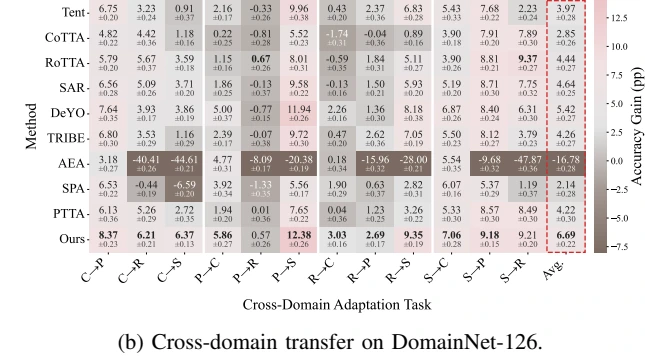
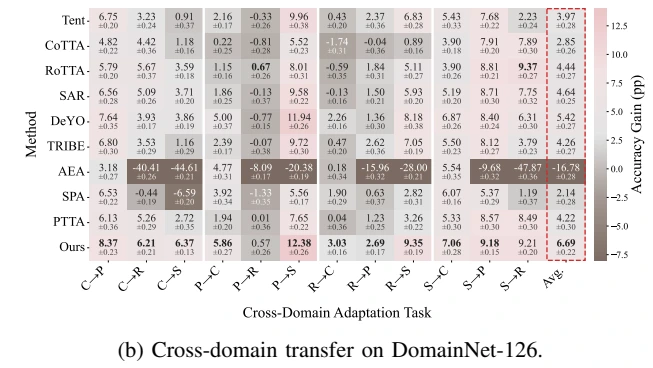
Align final response values and evidence boundaries; stabilize PDF deep-link navigation

diff --git a/data.js b/data.js
@@ -14,14 +14,14 @@ window.REVIEW_DATA={
[1 lines of base64/hex data omitted]
       },
       "revised": {
[3 lines of base64/hex data omitted]
       }
     },
     "fullResponseSource": "revise/Response_to_Editors_and_Reviewers_TCSVT_GPT5-6_v14/Response_to_Editors_and_Reviewers_TCSVT_GPT5-6_v14.tex",
[2 lines of base64/hex data omitted]
     "responsePages": 21,
[2 lines of base64/hex data omitted]
     "responseRevision": "v14",
     "revisedManuscriptSource": "latex_revise/main.tex"
   },
@@ -389,8 +389,7 @@ window.REVIEW_DATA={
         "probe-definition",
         "pcs-definition",
         "probe-sensitivity",
-        "purity-protocol",
-        "sinkhorn"
+        "purity-protocol"
       ],
       "metrics": [
         [
@@ -831,6 +830,8 @@ window.REVIEW_DATA={
           "kind": "image",
           "src": "assets/response/ab_margin_3d_lambda_u2.png",
           "alt": "Fig. 12(c). Hyperparameter sensitivity. Sensitivity to perturbation strength ⟪\\lambda⟫ and nominal frequency sampling range ⟪f_c⟫ (cycles/image).",
+          "width": 1108,
+          "height": 1082,
           "evidenceId": "probe-sensitivity"
         },
         {
@@ -1581,13 +1582,15 @@ window.REVIEW_DATA={
         },
         {
           "kind": "paragraph",
-          "html": "On the same A100 setup, Lite reduces FLOPs from 24.6 G to 9.4 G, peak memory from 14,690 MB to 6,080 MB, and latency from 5.20 to 3.19 ms/image, achieving 42.06% accuracy—1.42 pp below full DCF and 3.16 pp above SAR. Figure 12(d) supports low Sinkhorn iteration counts across the tested regularization range. Table IX reports accuracy gains of 0.09 and 0.21 pp for the Expected Fisher and Hutchinson proxies, respectively, with additional runtimes of 1.9 and 6.8 ms/image. The default proxy therefore offers a favorable accuracy–cost trade-off.",
-          "text": "On the same A100 setup, Lite reduces FLOPs from 24.6 G to 9.4 G, peak memory from 14,690 MB to 6,080 MB, and latency from 5.20 to 3.19 ms/image, achieving 42.06% accuracy—1.42 pp below full DCF and 3.16 pp above SAR. Figure 12(d) supports low Sinkhorn iteration counts across the tested regularization range. Table IX reports accuracy gains of 0.09 and 0.21 pp for the Expected Fisher and Hutchinson proxies, respectively, with additional runtimes of 1.9 and 6.8 ms/image. The default proxy therefore offers a favorable accuracy–cost trade-off."
+          "html": "On the same A100 setup, Lite reduces FLOPs from 24.6 G to 9.4 G, peak memory from 14,690 MB to 6,080 MB, and latency from 5.20 to 3.19 ms/image, achieving 42.06% accuracy—1.42 pp below full DCF and 3.16 pp above SAR. Figure 12(d) supports low Sinkhorn iteration counts across the tested regularization range. Table IX reports accuracy gains of 0.09 and 0.22 pp for the Expected Fisher and Hutchinson proxies, respectively, with additional runtimes of 1.9 and 6.8 ms/image. The default proxy therefore offers a favorable accuracy–cost trade-off.",
+          "text": "On the same A100 setup, Lite reduces FLOPs from 24.6 G to 9.4 G, peak memory from 14,690 MB to 6,080 MB, and latency from 5.20 to 3.19 ms/image, achieving 42.06% accuracy—1.42 pp below full DCF and 3.16 pp above SAR. Figure 12(d) supports low Sinkhorn iteration counts across the tested regularization range. Table IX reports accuracy gains of 0.09 and 0.22 pp for the Expected Fisher and Hutchinson proxies, respectively, with additional runtimes of 1.9 and 6.8 ms/image. The default proxy therefore offers a favorable accuracy–cost trade-off."
         },
         {
           "kind": "image",
           "src": "assets/response/ab_margin_3d_N_sk_varepsilon.png",
           "alt": "Fig. 12(d). Hyperparameter sensitivity. Stability across Sinkhorn iteration counts ⟪N_{\\mathrm{sk}}⟫ and entropic regularization values ⟪\\varepsilon_{\\mathrm{OT}}⟫, showing stable performance with few iterations.",
+          "width": 1109,
+          "height": 1058,
           "evidenceId": "sinkhorn"
         },
         {
@@ -1663,6 +1666,8 @@ window.REVIEW_DATA={
           "kind": "image",
           "src": "assets/response/retention-gates.png",
           "alt": "Fig. 9. Per-layer retention gates ⟪\\mu_t^l⟫ of CLR (ResNet-50). (a) Gates over the long-horizon stream (Domain index ⟪0\\!\\to\\!225⟫). (b) Gates per corruption type on T-CS.",
+          "width": 1800,
+          "height": 1350,
           "evidenceId": "retention-heatmap"
         },
         {
@@ -1796,8 +1801,8 @@ window.REVIEW_DATA={
         },
         {
           "kind": "paragraph",
-          "html": "As shown in Table IX, stage-level control outperforms normalization-layer control by 0.56 pp. Crucially, regarding the curvature estimator, more sophisticated proxies yield only marginal accuracy gains (+0.09 pp for Expected Fisher and +0.21 pp for Hutchinson) while incurring substantial latency overheads (+1.9 and +6.8 ms/image). This confirms our default per-sample gradient-square proxy as a highly effective, Pareto-optimal choice for real-time online adaptation.",
-          "text": "As shown in Table IX, stage-level control outperforms normalization-layer control by 0.56 pp. Crucially, regarding the curvature estimator, more sophisticated proxies yield only marginal accuracy gains (+0.09 pp for Expected Fisher and +0.21 pp for Hutchinson) while incurring substantial latency overheads (+1.9 and +6.8 ms/image). This confirms our default per-sample gradient-square proxy as a highly effective, Pareto-optimal choice for real-time online adaptation."
+          "html": "As shown in Table IX, stage-level control outperforms normalization-layer control by 0.56 pp. Crucially, regarding the curvature estimator, more sophisticated proxies yield only marginal accuracy gains (+0.09 pp for Expected Fisher and +0.22 pp for Hutchinson) while incurring substantial latency overheads (+1.9 and +6.8 ms/image). This confirms our default per-sample gradient-square proxy as a highly effective, Pareto-optimal choice for real-time online adaptation.",
+          "text": "As shown in Table IX, stage-level control outperforms normalization-layer control by 0.56 pp. Crucially, regarding the curvature estimator, more sophisticated proxies yield only marginal accuracy gains (+0.09 pp for Expected Fisher and +0.22 pp for Hutchinson) while incurring substantial latency overheads (+1.9 and +6.8 ms/image). This confirms our default per-sample gradient-square proxy as a highly effective, Pareto-optimal choice for real-time online adaptation."
         },
         {
           "kind": "heading",
@@ -1936,6 +1941,8 @@ window.REVIEW_DATA={
           "kind": "image",
           "src": "assets/response/imagenet_c_cross_heatmap_with_gain.png",
           "alt": "Fig. 11(a). Cross-domain transfer. ImageNet-C accuracy gains (in percentage points) over No Adapt, averaged across all unseen corruption domains. Results are reported as mean ⟪\\pm⟫ standard deviation over five runs.",
+          "width": 2684,
+          "height": 1514,
           "evidenceId": "transfer"
         },
         {
@@ -1948,6 +1955,8 @@ window.REVIEW_DATA={
           "kind": "image",
           "src": "assets/response/domainnet_heatmap_with_gain.png",
           "alt": "Fig. 11(b). Cross-domain transfer. DomainNet-126 accuracy gains over No Adapt for each cross-domain transfer pair (⟪\\text{Adaptation} \\to \\text{Evaluation}⟫, where C: Clipart, P: Painting, R: Real, and S: Sketch). Results are reported as mean ⟪\\pm⟫ standard deviation over five runs.",
+          "width": 2613,
+          "height": 1334,
           "evidenceId": "domainnet"
         },
         {
@@ -2014,8 +2023,8 @@ window.REVIEW_DATA={
                 "text": "DomainNet-126 gain over No Adapt"
               },
               {
-                "html": "<span data-response-math=\"6.69 \\pm 0.21\" data-display=\"false\">6.69 \\pm 0.21</span> pp",
-                "text": "⟪6.69 \\pm 0.21⟫ pp"
+                "html": "<span data-response-math=\"6.69 \\pm 0.22\" data-display=\"false\">6.69 \\pm 0.22</span> pp",
+                "text": "⟪6.69 \\pm 0.22⟫ pp"
               },
               {
                 "html": "DeYO / <span data-response-math=\"5.42 \\pm 0.27\" data-display=\"false\">5.42 \\pm 0.27</span> pp",
@@ -2059,8 +2068,8 @@ window.REVIEW_DATA={
         },
         {
           "kind": "paragraph",
-          "html": "For fair comparison and standardized evaluation, we directly adopt the unified source-domain ResNet-50 checkpoints provided by MME [46]. On DomainNet-126, models adapt on one domain and are evaluated on the remaining domains without further parameter updates; before adapting to each subsequent domain, the model is reset to the initial unified source checkpoint. DCF achieves positive gains over No Adapt across all 12 transfer pairs (+0.57 to +12.38 pp) and exceeds DeYO in every pair, with a significant aggregate accuracy advantage (61.40% versus 60.13%, <span data-response-math=\"p=2.75\\times10^{-4}\" data-display=\"false\">p=2.75\\times10^{-4}</span>). This second benchmark extends the transfer evaluation to a separate 126-class recognition task with substantial changes in visual style, strengthening the evidence that DCF maintains generalization across adaptation domains.",
-          "text": "For fair comparison and standardized evaluation, we directly adopt the unified source-domain ResNet-50 checkpoints provided by MME [46]. On DomainNet-126, models adapt on one domain and are evaluated on the remaining domains without further parameter updates; before adapting to each subsequent domain, the model is reset to the initial unified source checkpoint. DCF achieves positive gains over No Adapt across all 12 transfer pairs (+0.57 to +12.38 pp) and exceeds DeYO in every pair, with a significant aggregate accuracy advantage (61.40% versus 60.13%, ⟪p=2.75\\times10^{-4}⟫). This second benchmark extends the transfer evaluation to a separate 126-class recognition task with substantial changes in visual style, strengthening the evidence that DCF maintains generalization across adaptation domains."
+          "html": "For fair comparison and standardized evaluation, we directly adopt the unified source-domain ResNet-50 checkpoints provided by MME [46]. On DomainNet-126, models adapt on one domain and are evaluated on the remaining domains without further parameter updates. DCF achieves positive gains over No Adapt across all 12 transfer pairs (+0.57 to +12.38 pp) and exceeds DeYO in every pair, with a significant aggregate accuracy advantage (61.40% versus 60.13%, <span data-response-math=\"p=2.75\\times10^{-4}\" data-display=\"false\">p=2.75\\times10^{-4}</span>). This second benchmark extends the transfer evaluation to a separate 126-class recognition task with substantial changes in visual style, strengthening the evidence that DCF maintains generalization across adaptation domains.",
+          "text": "For fair comparison and standardized evaluation, we directly adopt the unified source-domain ResNet-50 checkpoints provided by MME [46]. On DomainNet-126, models adapt on one domain and are evaluated on the remaining domains without further parameter updates. DCF achieves positive gains over No Adapt across all 12 transfer pairs (+0.57 to +12.38 pp) and exceeds DeYO in every pair, with a significant aggregate accuracy advantage (61.40% versus 60.13%, ⟪p=2.75\\times10^{-4}⟫). This second benchmark extends the transfer evaluation to a separate 126-class recognition task with substantial changes in visual style, strengthening the evidence that DCF maintains generalization across adaptation domains."
         },
         {
           "kind": "paragraph",
@@ -2073,7 +2082,7 @@ window.REVIEW_DATA={
           "text": "Changes in the manuscript: Section IV-A, \"Benchmarks,\" p. 6; Section IV-C, \"Cross-Domain Transfer,\" and Fig. 11(a)–(b), p. 11."
         }
       ],
-      "responseWordCount": 737,
+      "responseWordCount": 721,
       "responseSourceSections": [
         "R1.6"
       ]
@@ -2883,7 +2892,7 @@ window.REVIEW_DATA={
         ],
         "aspect": 1.082214765100671
       },
-      "summary": "The local squared-response analysis establishes PCS as a structured directional-sensitivity measure. Controlled shortcut interventions connect this response to routing and improved trusted-set purity beyond entropy alone.",
+      "summary": "The local squared-response analysis establishes PCS as a structured directional-sensitivity measure under the actual post-clamp probe distribution. Controlled shortcut interventions and matched-coverage diagnostics establish its shortcut-sensitive routing value and improved trusted-set purity beyond entropy alone.",
       "before": "",
       "after": "Theoretical interpretation. Motivated by frequency-dependent model sensitivity and texture bias [39, 40], we characterize PCS through a local probability expansion. For a fixed input ⟪x⟫, let ⟪\\delta=\\mathcal{A}^{s}(x)-x⟫, ⟪Q_q(x)=\\mathbb{E}_q[\\delta\\delta^\\top]⟫, and ⟪g_x=\\nabla_x p_{\\theta_t}(\\hat{y}_t(x)\\mid x)⟫, holding the original predicted class fixed. For a locally smooth probability function and sufficiently small perturbations, retaining the positive-part operation in Eq. (5) gives ⟪\\mathbb{E}_q[s_{\\theta_t}(x)^2]\n=\\mathbb{E}_q[(-g_x^\\top\\delta)_+^2]\n+O(\\mathbb{E}_q\\lVert\\delta\\rVert_2^3).⟫ The leading term is bounded above by ⟪g_x^\\top Q_q(x)g_x⟫, where ⟪Q_q(x)⟫ captures the actual post-clamp perturbation second moments, including the effects of clamping-induced asymmetry. Thus, this relation establishes PCS as a structured directional-sensitivity measure whose response depends jointly on the prediction gradient and the directions excited by the Fourier probe. The controlled shortcut interventions in Section IV-C establish the empirical bridge to routing: among confidence-matched candidates, PCS separates task-relevant from shortcut-driven predictions and improves trusted-set purity beyond entropy alone, supporting PCS as a shortcut-sensitive routing signal.",
       "diff": {
@@ -3087,10 +3096,10 @@ window.REVIEW_DATA={
             50.49,
             6.818,
             42.157,
-            7.955
+            6.243
           ]
         ],
-        "aspect": 0.7846715328467153
+        "aspect": 0.8185279187817259
       },
       "summary": "Uniform prior mixing bounds deviation from the uniform marginal; trusted-set EMA updates and conservative centroid smoothing stabilize geometry repair under changing routing ratios.",
       "before": "Dynamic-marginal optimal transport. For each view, we compute an entropic OT assignment from routed-away features to the shared centroids. The cosine cost is ⟪\\displaystyle [\\mathbf{C}_t^V]_{ic} = 1-\\cos(\\mathbf{z}_{t,i}^{V},\\mathbf{M}_{t,c}), \\qquad V\\in\\{A,B\\}.⟫ (12) Let ⟪a_t=\\mathbf{1}_{n_t}/n_t\\in\\Delta^{n_t-1}⟫ be the sample marginal. To make the centroid marginal compatible with possible label shift, we estimate the current target class prior from stop-gradient predictions: ⟪\\displaystyle \\hat{\\pi}_{t} = \\frac{1}{N_t} \\sum_{i=1}^{N_t} \\operatorname{sg}\\!\\left[p_{\\theta_t}(\\cdot\\mid x_{t,i})\\right],⟫ (13) where ⟪\\operatorname{sg}[\\cdot]⟫ denotes stop-gradient. We maintain an exponential moving average of this prior: ⟪\\displaystyle \\bar{b}_t = (1-\\rho)\\bar{b}_{t-1} + \\rho\\hat{\\pi}_{t}, \\qquad \\bar{b}_0=\\frac{\\mathbf{1}_K}{K}.⟫ (14) The final centroid marginal used in the OT constraints is ⟪\\displaystyle b_t = \\rho\\bar{b}_t + (1-\\rho)\\frac{\\mathbf{1}_K}{K}.⟫ (15) The uniform component serves as an anti-collapse floor, discouraging routed-away samples from being concentrated on only a few categories.",
@@ -4364,11 +4373,11 @@ window.REVIEW_DATA={
         "image": "assets/crops/domainnet-revised.webp",
         "box": [
           50.49,
-          44.192,
-          42.157,
-          18.182
+          43.813,
+          42.647,
+          18.561
         ],
-        "aspect": 1.7916666666666667
+        "aspect": 1.7744565217391304
       },
       "summary": "DomainNet-126 reports five-run accuracy gains over No Adapt for 12 transfer pairs and an average column. DCF exceeds DeYO on all pairs and achieves the highest mean gain on 10 of 12 pairs.",
       "before": "",
@@ -4895,7 +4904,6 @@ window.REVIEW_DATA={
         "ae3",
         "r1-3",
         "r2-3",
-        "r1-1",
         "sae"
       ],
       "textScope": "caption"

diff --git a/review.js b/review.js
@@ -50,7 +50,7 @@ function evidence(c,m='split',scope='evidence'){
 const text=!!(c.before||c.after),both=!!(c.original&&c.revised);if(m==='slider'&&!both||m==='text'&&!text)m='split';
 const body=m==='slider'?slider(c.original,c.revised):`<div class="comparison-grid">${['original','revised'].map(v=>`<div class="compare-column">${head(v,c[v])}${!c[v]?'<div class="empty-version"><div><strong>Added in the revision</strong><br>No corresponding material in the original manuscript.</div></div>':m==='text'?`<div class="compare-text">${(v==='original'?c.before:c.after)?diff(c,v):'<span class="source-note">See the PDF excerpt for this version.</span>'}</div>`:`<div class="image-container">${img(c[v],v)}</div>`}</div>`).join('')}</div>`;
 return `<div class="evidence-header"><div><div class="eyebrow">${esc(c.type||'Figure')} evidence · ${esc(c.section||'Figure gallery')}</div><h2>${esc(c.title)}</h2></div>${badge(c.status)}</div>${scope==='modal'?'':`<p class="detail-summary">${mathText(c.summary)}</p>`}<div class="evidence-toolbar"><div class="segmented" role="group" aria-label="Comparison mode"><button data-mode="split" data-scope="${scope}" class="${m==='split'?'active':''}" aria-pressed="${m==='split'}">Side by side</button><button data-mode="slider" data-scope="${scope}" class="${m==='slider'?'active':''}" ${both?'':'disabled'} aria-pressed="${m==='slider'}">Before / after</button>${text?`<button data-mode="text" data-scope="${scope}" class="${m==='text'?'active':''}" aria-pressed="${m==='text'}">${c.textScope==='caption'?'Caption diff':'Text diff'}</button>`:''}</div><a class="button small pdf-cta" href="${pdfHref(c.id,scope==='evidence'?selected:matchesPdfScope(c)?pdfScope.comment:'all')}">Open PDF diff</a></div>${m==='text'?'<p class="diff-legend"><span class="del-key">Removed</span><span class="add-key">Added or rewritten</span></p>':''}${body}${scope==='modal'?linkedResponses(c):''}`}
-function responseFigure(b,c){return `<figure class="response-figure"><img src="${assetUrl(b.src)}" alt="${esc(b.alt)}" loading="lazy">${b.caption?`<figcaption class="response-caption">${mathText(b.caption)}${b.evidenceId?` · <a href="${pdfHref(b.evidenceId,c.id)}">Open PDF evidence</a>`:''}</figcaption>`:''}</figure>`;}
+function responseFigure(b,c){return `<figure class="response-figure"><img src="${assetUrl(b.src)}" alt="${esc(b.alt)}" width="${b.width}" height="${b.height}" loading="lazy">${b.caption?`<figcaption class="response-caption">${mathText(b.caption)}${b.evidenceId?` · <a href="${pdfHref(b.evidenceId,c.id)}">Open PDF evidence</a>`:''}</figcaption>`:''}</figure>`;}
 function responseBlocks(c){return c.fullResponse.map((b,index)=>{
 if(b.kind==='list')return `<${b.ordered?'ol':'ul'} class="response-steps">${b.items.map(parts=>`<li>${responseBlocks({fullResponse:parts})}</li>`).join('')}</${b.ordered?'ol':'ul'}>`;
 if(b.kind==='table')return `<div class="response-table-wrap"><table class="response-table"><thead><tr>${b.rows[0].map(cell=>`<th${cell.colspan?` colspan="${cell.colspan}"`:''}>${mathHtml(cell.html)}</th>`).join('')}</tr></thead><tbody>${b.rows.slice(1).map(row=>`<tr>${row.map(cell=>`<td${cell.colspan?` colspan="${cell.colspan}"`:''}>${mathHtml(cell.html)}</td>`).join('')}</tr>`).join('')}</tbody></table></div>`;

diff --git a/styles.css b/styles.css
@@ -113,6 +113,7 @@
 .review-evidence-browser{overflow-anchor:none;}
 html{scrollbar-gutter:stable;}
 #evidence-nav-anchor{height:0;}
+.response-figure img{height:auto;}
 .response-figure-pair{display:grid;grid-template-columns:repeat(2,minmax(0,1fr));gap:20px;margin:18px 0;align-items:start;}
 .response-figure-pair .response-figure{margin:0;min-width:0;}
 .response-figure-pair .response-figure img{max-width:none;}

diff --git a/tools/align-evidence-v14.py b/tools/align-evidence-v14.py
@@ -58,7 +58,7 @@ with pdfplumber.open(ROOT/'latex_revise/main.pdf') as pdf:
     ref['box'] = rect(309,516.5,567,593)
     ref.pop('boxes',None)
 
-    # All bounds below are measured against the author's 7 October PDF.
+    # Bounds are measured against the supplied current author PDF.
     current = {
         'shape-texture': (8, (309,484,567,665)),
         'rgr-alternatives': (10, (46,266,304,380)),
@@ -68,7 +68,8 @@ with pdfplumber.open(ROOT/'latex_revise/main.pdf') as pdf:
         'implementation': (6, (309,592,567,750)),
         'efficiency': (12, (309,51,567,253)),
         'transfer': (11, (309,182,567,583)),
-        'domainnet': (11, (309,350,567,494)),
+        # Include the complete top edge and colorbar tick labels of panel (b).
+        'domainnet': (11, (309,347,570,494)),
         'probe-sensitivity': (12, (46,178.6,175,305)),
         'sinkhorn': (12, (175,178.6,304,305)),
     }
@@ -90,7 +91,9 @@ with pdfplumber.open(ROOT/'latex_revise/main.pdf') as pdf:
     ref.pop('boxes',None)
     # Include the entire prior safeguard continuation before the OT objective.
     ref = changes['prior-safeguards']['revised']
-    ref['boxes'] = [rect(46,491,304,752),rect(309,54,567,117)]
+    continuation = pdf.pages[4].crop((309,54,567,120))
+    end = continuation.search('The entropic OT plans are then obtained by solving:', regex=False)[0]
+    ref['boxes'] = [rect(46,491,304,752),rect(309,54,567,end['top']-1)]
     ref['box'] = ref['boxes'][0]
 
     figures = {f['id']:f for f in data['figures']}
@@ -101,4 +104,4 @@ with pdfplumber.open(ROOT/'latex_revise/main.pdf') as pdf:
         figures[id]['revised']['box'] = rect(*bounds)
 
 DATA.write_text('window.REVIEW_DATA='+json.dumps(data,ensure_ascii=False,indent=2)+';\n',encoding='utf-8')
-print('Measured all changed passages, tables, figures, and the complete p. 11 hyperparameter paragraph against the 7 October manuscript PDF.')
+print('Measured current passages, tables, figures, the complete DomainNet panel, and exact prior/sensitivity paragraph boundaries against the supplied manuscript PDF.')

diff --git a/tools/verify-evidence-content.py b/tools/verify-evidence-content.py
@@ -8,7 +8,7 @@ import fitz
 
 site = Path(__file__).resolve().parents[1]
 data = json.loads((site/'data.js').read_text(encoding='utf-8').split('=',1)[1].rsplit(';',1)[0])
-documents = {v:fitz.open(site.parent/d/'main.pdf') for v,d in
+documents = {v:fitz.open(stream=(site.parent/d/'main.pdf').read_bytes(),filetype='pdf') for v,d in
              [('original','latex_old_version'),('revised','latex_revise')]}
 changes = {c['id']:c for c in data['changes']}
 
@@ -60,6 +60,10 @@ assert threshold['page']==11 and not threshold.get('regions'),'Obsolete p. 12 co
 assert 'minimal hyperparameter tuning.' in excerpt(threshold,'revised'),'Incomplete threshold paragraph'
 assert 'Hyperparameter' not in excerpt(changes['probe-sensitivity']['revised'],'revised')
 assert data['figures'][next(i for i,c in enumerate(data['figures']) if c['id']=='f12')]['revised']['box'][1]<7,'Fig. 12 top is clipped'
+assert 'The entropic OT plans are then obtained by solving:' not in excerpt(changes['prior-safeguards']['revised'],'revised'),'Prior crop includes the next objective introduction'
+panel=changes['domainnet']['revised']['box']
+assert panel[1]*7.92<=348 and (panel[0]+panel[2])*6.12>=569,'DomainNet panel top edge or colorbar is clipped'
+assert 'sinkhorn' not in next(c for c in data['comments'] if c['id']=='r1-1')['changes'],'OT panel linked to the Fourier-probe reply'
 
 response_dir=(site.parent/data['meta']['fullResponseSource']).parent
 assert hashlib.sha256((site/'assets/response/retention-gates.png').read_bytes()).digest()==hashlib.sha256((response_dir/'assets/retention_gate_heatmap.png').read_bytes()).digest()

diff --git a/tools/sync-compiled-evidence.py b/tools/sync-compiled-evidence.py
@@ -27,7 +27,7 @@ for id,comment_id in [('probe-sensitivity','r1-1'),('sinkhorn','r1-3')]:
     changes[id]['after']=caption['text']
     changes[id]['textScope']='caption'
 
-changes['probe-theory']['summary']='The local squared-response analysis establishes PCS as a structured directional-sensitivity measure. Controlled shortcut interventions connect this response to routing and improved trusted-set purity beyond entropy alone.'
+changes['probe-theory']['summary']='The local squared-response analysis establishes PCS as a structured directional-sensitivity measure under the actual post-clamp probe distribution. Controlled shortcut interventions and matched-coverage diagnostics establish its shortcut-sensitive routing value and improved trusted-set purity beyond entropy alone.'
 changes['prior-safeguards']['summary']='Uniform prior mixing bounds deviation from the uniform marginal; trusted-set EMA updates and conservative centroid smoothing stabilize geometry repair under changing routing ratios.'
 changes['threshold-guidance']['summary']='Broad high-accuracy plateaus support an out-of-the-box configuration for an unseen K-class dataset: υPCS = 0.2, υEnt = 0.6 ln K, and Fourier strength λ = 0.2. Dynamic CLR outperforms static baselines, and stable OT performance enables a minimal Sinkhorn budget with minimal hyperparameter tuning.'
 changes['transfer']['summary']='Five matched runs establish significant aggregate transfer gains over AEA on ImageNet-C and DeYO on DomainNet-126. Fig. 11 reports mean ± SD and adds the DomainNet-126 transfer matrix.'
